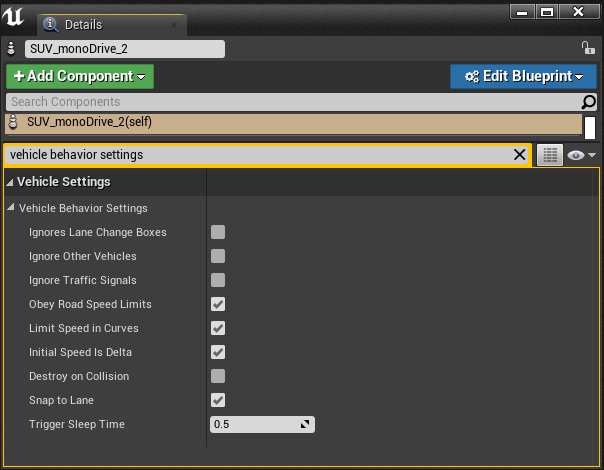
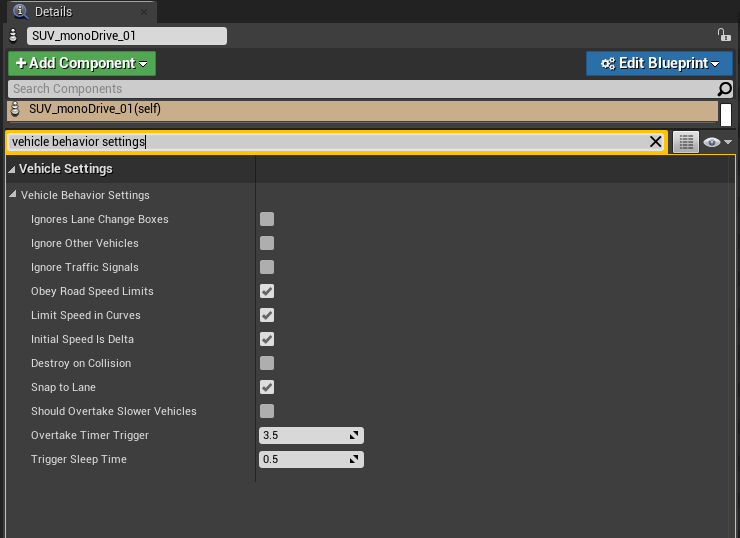
updated vehicle settings with updated options with updated editor pictures.

diff --git a/docs/scenario_editor/scenarios.md b/docs/scenario_editor/scenarios.md
@@ -48,7 +48,7 @@ behavior settings: vehicle controller settings and vehicle behavior settings.
 The first section, "Vehicle Controller Settings", 
 contains several settings relative to vehicle behavior for speed and control:
 
--   **Set Speed:**  Sets the desired speed of the vehicle as a delta above 
+- **Set Speed:**  Sets the desired speed of the vehicle as a delta above 
 or below the road's speed limit in miles per hour.
 For example, if the road's set speed limit is 40mph, a 
 value of "0" would result in the vehicle moving at a speed of 40mph, and with 
@@ -56,14 +56,12 @@ a value of "-20", the vehicle's speed would be 20mph.
 When the "Obey Road Speed Limits" is not set, the input in this field sets the 
 speed of the vehicle (in miles per hour) without regarding the road's speed limit.
 
--   **Initial Speed:** Sets the initial speed of the vehicle as a delta above 
+- **Initial Speed:** Sets the initial speed of the vehicle as a delta above 
 or below the road's speed limit in miles per hour. When the "Obey Road Speed Limits" 
 is not set, the input in this field sets the speed of the vehicle (in miles per hour)
  without regarding the road's speed limit.
-
--   **Delayed Start:**  The number of seconds to wait before moving this vehicle.
  
--   **Show Vehicle Charts:**  If set, then vehicle dynamics charts will be shown.
+- **Show Vehicle Charts:**  If set, then vehicle dynamics charts will be shown.
 	Charts display information about Steering, Speed, Acceleration, Gear, Engine RPM,
 	and Throttle. To the right of the charts, the speed of the vehicle is displayed in
 	miles per hour.
@@ -71,78 +69,83 @@ is not set, the input in this field sets the speed of the vehicle (in miles per 
       <img class='wide_img' src="../imgs/vehicle_charts_3.png"/>
     </div>
 
--   **Debug Drawing:**  If set, then debug vehicle information will be drawn in the editor.
+- **Debug Drawing:**  If set, then debug vehicle information will be drawn in the editor.
 	<div class="img_container">
       <img class='lg_img' src="../imgs/debug_draw.png"/>
     </div>
 
--   **Search Forward Distance:**  The number of centimeters to look ahead when computing AI actions. If speeds are much higher than 70mph consider increasing.
+- **Search Forward Distance:**  The number of centimeters to look ahead when computing AI actions. If speeds are much higher than 70mph consider increasing.
 
 - **Search Backward Distance:** The number of centimeters to look backward when computing AI actions.
 
-- **Lane Offset:**  The number of centimeters to drive from the lane center: positive is right, negative is left.
-
--   **Steer Forward Distance:**  The range of centimeters to look ahead when performing steering AI actions, interpolated based on `steerForwardSpeedRange`.
-
-- **Steer Forward Distance During Lane Change:** The range of centimeters to look ahead when performing steering AI actions during a lane change, interpolated based on `steerForwardSpeedRange`.
+- **Steer Forward Distance:**  The range of centimeters to look ahead when performing steering AI actions, interpolated based on `steerForwardSpeedRange`.
 
 - **Steer Forward Speed:** The range of speed (mph) used to LERP `steerForwardDistance`.
 
--   **Rolling stop speed:** The speed to travel before continuing after a legal stop.
+- **Rolling stop speed:** The speed to travel before continuing after a legal stop.
 
--   **Distance to Stop Sign:**  The number of centimeters to stop before a controlled intersection.
+- **Distance to Stop Sign:**  The number of centimeters to stop before a controlled intersection.
 
--  **Spawn Offset:** The offset to apply to the vehicle position prior to spawning.
+- **Spawn Offset:** The offset to apply to the vehicle position prior to spawning.
 
-- **Acceleration Constraints:** The minimum and maximum acceleration of the vehicle used by AutoPilot. cm/s^2.
-
-- **Changing Lanes:** Whether the vehicle is in the middle of a lane change.
+- **Deceleration Constraints:** The minimum and maximum deceleration of the vehicle used by AutoPilot. cm/s^2.
 
 - **Turn Pref:** (Turn Preference) At the next turn the vehicle will prefer to take this turn. 
 	This will reset the drop down menu to "NONE" after the following turn.
 
 - **Simple Speed Look Ahead:** The number of centimeters to look ahead when performing simple speed control.
 
+- **Vehicle Length:** Total length of the vehicle, used in various maneuver calculations.
+
 - **Point PID:** PID Controller settings for point control.
 
 - **Speed PID:** PID Controller settings for speed control.
 
-- **Changing Lanes Left: / Changing Lanes Right:**  Status change only, has no effect. Should not be changed. 
+- **Lane Offset:**  The number of centimeters to drive from the lane center: positive is right, negative is left.
+
+- **Changing Lanes Left: / Changing Lanes Right:**  Status change only, shows when vehicle is in lane change.
 
 -	**Lane Change Transition Distance:** Lane Change is considered complete after the vehicle coordinate frame is close to the new lane center.
 
 -	**Steer Forward Distance During Lane Change:** The range of centimeters to look ahead when performing steering AI actions during a lane change, interpolated based on steerForwardSpeedRange.
 
+- **Clamp Decay Exponent:** Exponential decay was added to lighten the clamping to 1 as the vehicle converged on the center lane to regain full steering control.
+
 -	**Lane Change Comfort Proximity:** The minimum proximity in centimeters behind and in front of the vehicle for which it is acceptable to change lanes. In addition, the vehicle calculates if it or the other vehicle could stop in time to avoid the collision, and this value sets an extra barrier. 
 
--	**Lane Change Clamp Steer:** The maximum allowable steering angle from the pure pursuit controller, will use this range with the Lane Change Clamp Steer Speed. The actual clamped value is interpolated using the current speed, the clamp steer range, and the Lane Change Clamp Steer Speed. 
-
--	**Lane Change Clamp Steer Speed:** The speed range used in interpolating the steering clamping function. 
+- **Lane Change Steering Clamp Curve:** Sets a threshold as a function of speed for the steering control. At the start of lane transition, this value will be used, but as the vehicle converges the clamp decay function will take over until full steering control is returned. Lower values smooth the lane change, higher values create a more aggressive lane change. 
 
 
 ### Vehicle Behavior Settings
 The "Vehicle Behavior Settings" section of a vehicle's settings contains options for 
 obeying (or not) traffic laws:
 
--   **Ignores Lane Change Boxes:**  If set, all lane change trigger boxes will be ignored.
+- **Ignores Lane Change Boxes:**  If set, all lane change trigger boxes will be ignored.
 
--   **Ignore Other Vehicles:**  If set, all other vehicles will be ignored when computing AI actions.
+- **Ignore Other Vehicles:**  If set, all other vehicles will be ignored when computing AI actions.
 
--   **Ignore Traffic Signals:**  If set, this vehicle will ignore all traffic control devices.
+- **Ignore Traffic Signals:**  If set, this vehicle will ignore all traffic control devices.
 
--   **Obey Road Speed Limits:** If set, this vehicle will obey the speed limits of the road and
+- **Obey Road Speed Limits:** If set, this vehicle will obey the speed limits of the road and
 set speed and initial speed will be a delta above or below the road's speed limit. 
 
--   **Limit Speed in Curves:**  If set, this vehicle will attempt to slow down in order to properly corner in turns.
+- **Limit Speed in Curves:**  If set, this vehicle will attempt to slow down in order to properly corner in turns.
 
 - **Initial Speed is Delta:** If set, when vehicle is obeying road speed limits, the initial velocity will be used as a delta above or below the speed limit. If vehicle is not obeying road speed limits this setting is ignored.
 
--   **Destroy on Collision:**  If set, this vehicle will be removed in the scene after colliding with another physics body.
+- **Destroy on Collision:**  If set, this vehicle will be removed in the scene after colliding with another physics body.
 
--   **Snap to Lane:**  If set, this vehicle will search for the nearest lane and snap to it at spawn.
+- **Should Overtake Slower Vehicles:** If set, will allow vehicle to overtake slower vehicles that it is following for the overtake timer trigger set amount of time. Otherwise, the vehicles will slow to the lead vehicle's speed and remain there. 
+
+- **Overtake Timer Trigger:** The time in seconds a vehicle should wait before triggering the should overtake slower vehicles behavior when it is following a vehicle. Only applies when the vehicle is allowed to overtake vehicles.
+
+- **Snap to Lane:**  If set, this vehicle will search for the nearest lane and snap to it at spawn.
 
 - **Trigger Sleep Time:** A vehicle might hit a dynamic trigger box more than once as they are in motion, to avoid double triggering, behavior can only be modified by the same trigger component again after this many seconds.
 
+### Replay Vehicle Path
+
+The user may specify the vehicle's blueprint path for replay. This path needs to point to a vehicle derived from Custom Physics Vehicle, which can be a shell with no physics implemented for this purpose. 
 
 ## Tagging System
 
